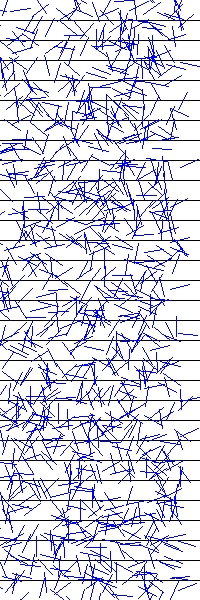
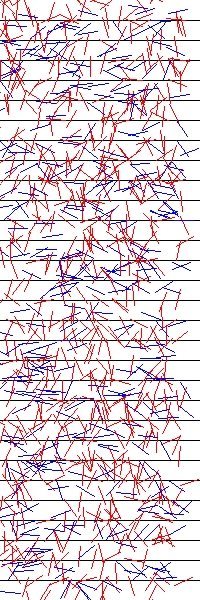
index for using on website

diff --git a/index.php b/index.php
@@ -22,7 +22,7 @@ function get_or_default($key, $default)
 }
 
 //How many hotdogs we will throw
-get_or_default('throws_count', 1000);
+get_or_default('throws_count', 100);
 //How big result image will be
 get_or_default('img_scale', 2);
 //how wide image will be compared to single hotdog
@@ -46,5 +46,59 @@ for($i=1;$i<=throws_count; $i++)
   }
 }
 $pi = (2/$crossed)*$i;
-echo "Counted π: $pi based on ".throws_count." throws.";
+$result = "Counted π: $pi based on ".throws_count." throws.";
 
+?>
+
+<!doctype html>
+<html lang="en">
+<head>
+  <link media="all" type="text/css" rel="stylesheet" href="http://176.58.111.46/packages/bootstrap/css/bootstrap.min.css">
+  <meta charset="UTF-8">
+  <title>Calculate π by throwing hotdogs</title>
+</head>
+<body>
+  <div class="container">
+    <div class="row clearfix">
+      <div class="col-md-12 column">
+        <form method="GET" action="index.php" accept-charset="UTF-8" class="form-horizontal" id="comment-form">
+          <div class="form-group">
+            <label for="throws_count" class="col-sm-2 control-label">Throws count</label>
+            <div class="col-sm-10">
+              <input class="form-control" name="throws_count" type="text" id="throws_count">
+            </div>
+          </div>
+
+          <div class="form-group">
+            <label for="img_scale" class="col-sm-2 control-label">Image scale</label>
+            <div class="col-sm-10">
+              <input class="form-control" name="img_scale" type="text" id="img_scale">
+            </div>
+          </div>
+
+          <div class="form-group">
+            <label for="img_width_multiplier" class="col-sm-2 control-label">Image width multiplier</label>
+            <div class="col-sm-10">
+              <input class="form-control" name="img_width_multiplier" type="text" id="img_width_multiplier">
+            </div>
+          </div>
+
+          <div class="form-group">
+            <label for="lines_count" class="col-sm-2 control-label">Lines count</label>
+            <div class="col-sm-10">
+              <input class="form-control" name="lines_count" type="text" id="lines_count">
+            </div>
+          </div>
+          <div class="form-group">
+            <div class="col-sm-offset-2 col-sm-10">
+              <input class="btn btn-default" type="submit" value="Throw!">
+            </div>
+          </div>
+        </form>
+        <p><?php echo $result ?></p>
+        <?php echo $image->output() ?>
+      </div>
+    </div>
+  </div>
+</body>
+</html>

diff --git a/ResultImage.php b/ResultImage.php
@@ -27,6 +27,7 @@ class ResultImage {
     $this->black = imagecolorallocate($this->img, 0, 0, 0);
     $this->blue = imagecolorallocate($this->img, 0, 0, 255);
     $this->white = imagecolorallocate($this->img, 255, 255, 255);
+    $this->red = imagecolorallocate($this->img, 255, 0, 0);
 
     imagefilledrectangle($this->img,0,0,$this->width,$this->height,$this->white);
     for($x=1;$x*FrozenHotdog::length*$scale < $this->height;$x++)
@@ -41,7 +42,14 @@ class ResultImage {
     $start = $hotdog->getStart();
     $end = $hotdog->getEnd();
     $scale = $this->scale;
-    imageline($this->img,$start['x']*$scale,$start['y']*$scale,$end['x']*$scale,$end['y']*$scale,$this->blue);
+    if($hotdog->isCrossed()){
+      $color = $this->red;
+    }
+    else
+    {
+      $color = $this->blue;
+    }
+    imageline($this->img,$start['x']*$scale,$start['y']*$scale,$end['x']*$scale,$end['y']*$scale,$color);
   }
 
   public function save($filename = 'result')
@@ -49,10 +57,9 @@ class ResultImage {
     imagejpeg($this->img,"$filename.jpg",100);
   }
 
-  function __destruct()
+  public function output()
   {
-    $this->save();
+    imagejpeg($this->img);
   }
-
 
 }
